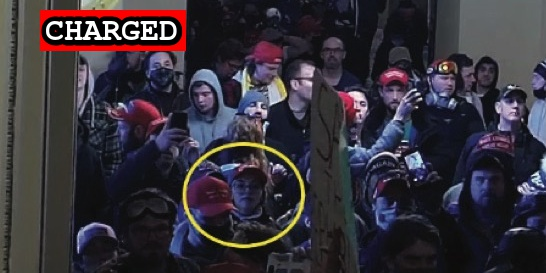
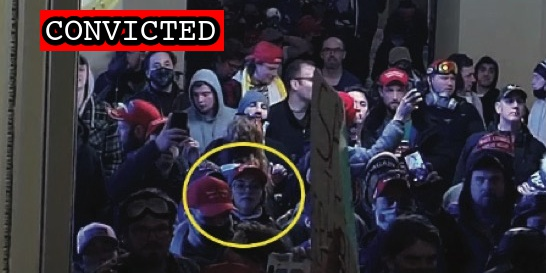
Latest pleas

Changed region(s): [[0.0623, 0.0293, 0.4359, 0.2051]]

diff --git a/docs/_suspects/james-lollis.md b/docs/_suspects/james-lollis.md
@@ -4,16 +4,16 @@ lastName: Lollis
 hashtag: JamesLollis
 aka:
 residence: South Carolina
-status: Charged
+status: Convicted
 date: 2021-09-03
 charged: 2021-09-03
 indicted:
-convicted:
+convicted: 2021-11-22
 sentenced:
 dismissed:
 deceased:
 plea_hearing: 2021-11-22
-sentencing:
+sentencing: 2021-02-18
 age:
 occupation:
 affiliations:
@@ -34,8 +34,12 @@ published: true
 caseNumber:
 videos:
 charges:
+- code: 18 USC § 5104(e)(2)(G)
+  title: Parading, demonstrating or picketing in a Capitol building
+  url: https://www.law.cornell.edu/uscode/text/40/5104
+  felony: false
 sentence:
 ---
-
 - [News Report](https://www.foxcarolina.com/news/fbi-upstate-man-arrested-for-taking-part-in-riot-at-u-s-capitol-building/article_2eec20da-10eb-11ec-855b-f7b78801b6b8.html)
 - [Statement of Facts](https://extremism.gwu.edu/sites/g/files/zaxdzs2191/f/James%20Douglas%20Lollis%20Jr%20Criminal%20Complaint%20and%20Statement%20of%20Facts.pdf)
+- [Plea Agreement](https://storage.courtlistener.com/recap/gov.uscourts.dcd.237457/gov.uscourts.dcd.237457.18.0_1.pdf)

diff --git a/docs/_suspects/nicole-prado.md b/docs/_suspects/nicole-prado.md
@@ -4,16 +4,16 @@ lastName: Prado
 hashtag: NicolePrado
 aka:
 residence: Maryland
-status: Charged
+status: Convicted
 date: 2021-06-03
 charged: 2021-06-03
 indicted:
-convicted: 
-sentenced: 
-dismissed: 
+convicted: 2021-11-22
+sentenced:
+dismissed:
 deceased:
-plea_hearing:
-sentencing:
+plea_hearing: 2021-11-22
+sentencing: 2022-02-07
 age:
 occupation:
 affiliations:
@@ -34,6 +34,10 @@ published: true
 caseNumber: 1:21-cr-403
 videos:
 charges:
+- code: 18 USC § 5104(e)(2)(G)
+  title: Parading, demonstrating or picketing in a Capitol building
+  url: https://www.law.cornell.edu/uscode/text/40/5104
+  felony: false
 sentence:
 ---
 - [News Report](https://www.wusa9.com/article/news/national/capitol-riots/meet-the-new-congresswoman-friends-instagram-post-leads-to-womans-capitol-riot-arrest-nicole-prado-trump-gaithersburg/65-f436d15e-6d06-462d-9a94-5ac2d9ea4e11)

diff --git a/docs/_suspects/duke-wilson.md b/docs/_suspects/duke-wilson.md
@@ -13,7 +13,7 @@ sentenced:
 dismissed:
 deceased:
 plea_hearing: 2021-09-07
-sentencing: 2021-11-22
+sentencing: 2021-12-21
 age: 66
 occupation:
 affiliations:
